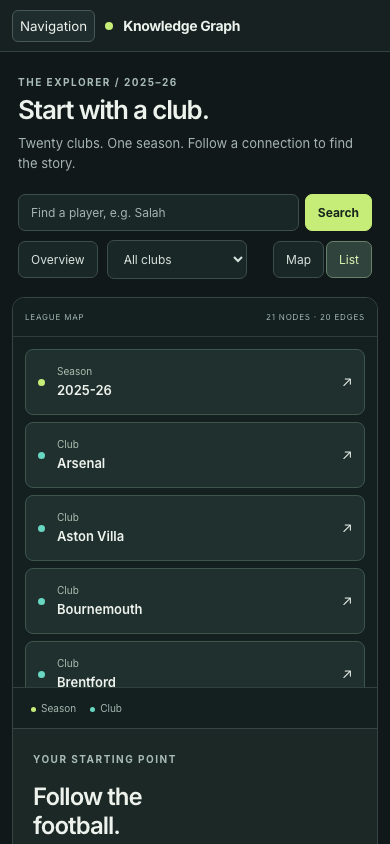
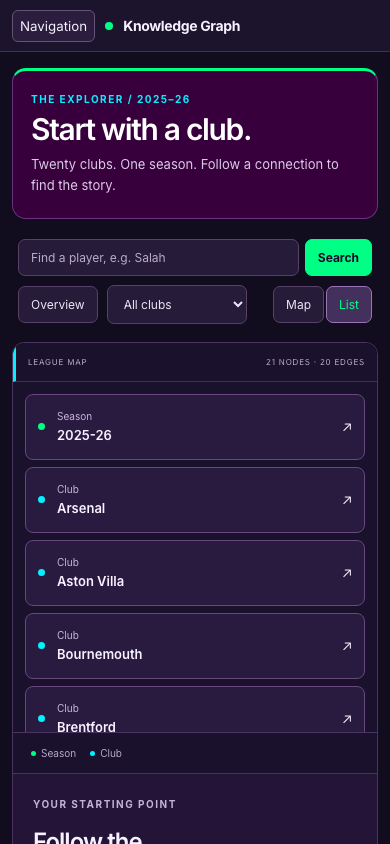
docs: show league-themed UI and document player matching coverage

diff --git a/README.md b/README.md
@@ -36,6 +36,7 @@ The [fresh-data MVP milestone](https://github.com/jengaWiz/pl-knowledge-engine/m
 
 - **Evidence analyst:** compare points, goals and goal difference; inspect last-five form, home/away splits and goal/assist rankings, including per-90 rates with a minutes threshold.
 - **Focused graph explorer:** start with 20 clubs, drill into up to 12 available players and six recent fixtures, or search a player. Stable, labeled layouts replace the full-graph cluster; inspect real relationship directions and follow connections. Mobile starts in an accessible list view. Player/fixture views show up to eight recent appearance records.
+- **Player discovery:** search accent-free or full names (`ekitike`, `Alisson`), select closest matches for typos (`allison`), and distinguish missing roster coverage from service errors. [Search behavior and coverage](docs/player-search.md).
 - **Fixture browser:** filter the full league schedule and navigate results using mouse or keyboard.
 - **Source evidence:** select a historical season, resolve fixture or player/opponent questions, and inspect verified records with original row/revision references. [Optional preparation and API guide](docs/evidence-api-ui.md).
 - **Evidence retrieval API:** search local summaries by club and inspect source URLs, record IDs and provenance.
@@ -44,6 +45,8 @@ The [fresh-data MVP milestone](https://github.com/jengaWiz/pl-knowledge-engine/m
 <summary>See club exploration, match detail and the mobile experience</summary>
 
 ![Liverpool squad and recent fixtures in a bounded relationship map](docs/images/demo-club.png)
+
+![Closest-match player suggestions for a misspelled Alisson search](docs/images/player-search.png)
 
 ![Actual Liverpool–Bournemouth match graph with readable appearance records](docs/images/demo-match.png)
 
@@ -146,10 +149,10 @@ Verified against pinned **2025–26** sources. [Acceptance evidence and reproduc
 
 | Check | Result |
 | --- | --- |
-| Python suite | **542 tests passed**; CI covers Python 3.11 and 3.12. |
+| Python suite | **563 tests passed**; CI covers Python 3.11 and 3.12. |
 | Independent numerical references | **42/42 passed**, plus five insufficient-evidence cases. |
 | Real-store/API acceptance | **Seven checks passed**, including all 42 live numerical references. |
-| Desktop/mobile browser flows | **20/20 passed**, covering graph exploration, keyboard navigation, fixtures, statistics and source evidence on desktop/mobile. |
+| Desktop/mobile browser flows | **24/24 passed**, covering graph exploration, keyboard navigation, fixtures, statistics and source evidence on desktop/mobile. |
 | Empty-storage Docker setup | Public collection, validation, graph/index loading and readiness passed. |
 | Backup and restart | All four volumes backed up privately; versions, counts and live answers preserved without recollection. |
 | CI | Python checks, wheel packaging, frontend build, Docker build and cold-storage readiness checks. |

diff --git a/docs/player-search.md b/docs/player-search.md
@@ -1,0 +1,35 @@
+# Player discovery
+
+The graph explorer searches the pinned **2025–26 Aston Villa and Liverpool roster**
+(57 players). Full-league fixtures do not imply full-league player coverage.
+
+Player lookup normalizes case, diacritics, punctuation and spacing. Display names,
+full names and full-name tokens are accepted: `ekitike` resolves Hugo Ekitiké,
+`Alisson` resolves Alisson Becker (displayed as A.Becker), and `Salah` resolves
+Mohamed Salah. Unique partial names of at least three characters also resolve.
+The native input suggestions expose stored full names.
+
+If an input is misspelled, the API returns up to five closest stored names, which
+the user can select. Suggestions use a deterministic SequenceMatcher score of at
+least 0.74 against normalized aliases; single-word queries also compare name
+tokens. Multiple exact or partial matches require selection. Fuzzy matches never
+silently select a player. Clicking a suggestion sends its canonical player ID.
+
+Examples:
+
+| Input | Behavior |
+| --- | --- |
+| `ekitike` | Opens Hugo Ekitiké despite the missing accent. |
+| `allison` | Suggests Alisson Becker; select the suggestion to open his graph. |
+| `Luis Diaz` | No stored match in this roster snapshot. |
+
+The `/api/graph/player/{name}` route returns 200 with the existing graph shape
+when resolved, 409 with `detail.suggestions` when selection is required, and 404
+when no supported match is found. Database/service failures remain 503 and are
+shown as temporary failures, separately from missing coverage. Player projections
+include the public `full_name` field; internal provenance fields remain excluded.
+
+Inputs are bounded to 120 characters for matching; short fragments do not receive
+fuzzy suggestions. Matching reads only current-season, MVP-managed player records
+and does not expand or modify the source roster. A close name is not evidence of
+player identity, and absent players are not substituted with unrelated records.
